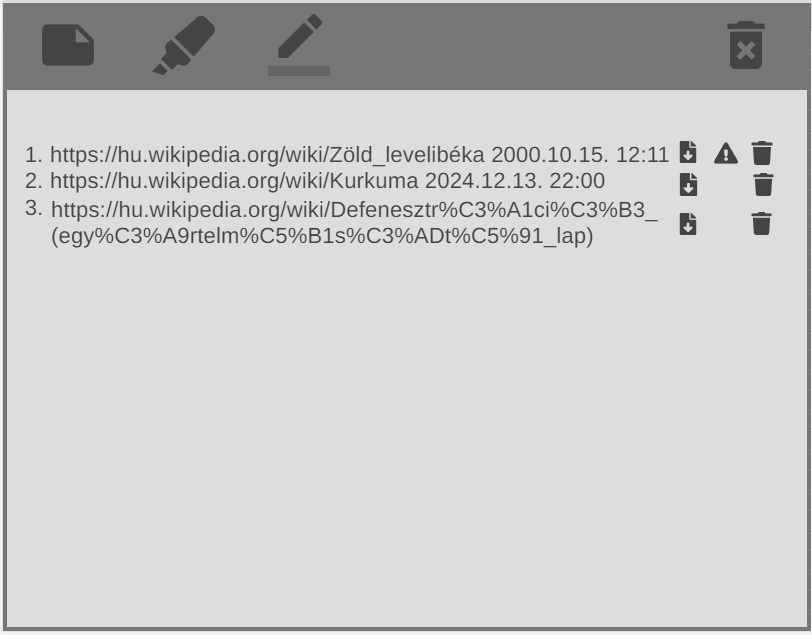
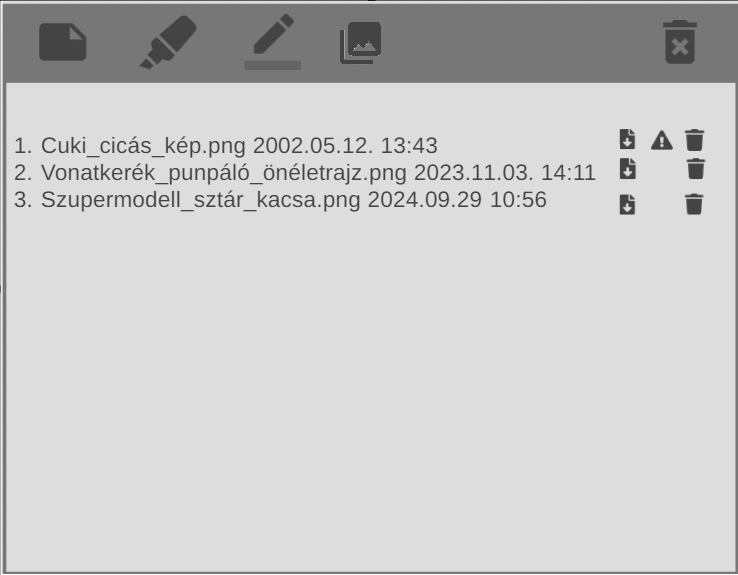
toolbar,all_notes, notes

Changed region(s): [[0.0, 0.0, 1.0, 1.0], [0.3428, 0.0591, 0.374, 0.0887]]

diff --git a/design/design.md b/design/design.md
@@ -1,7 +1,7 @@
 # Concept Design 
 
 ## All Notes:
-![all_notes_highlights](all_notes_highlights.png) ![all_notes_note](all_notes_note.png) ![all_notes_picture](all_notes_picture.png)
+![all_notes_highlights](all_notes_highlights.png) ![all_notes_note](all_notes_note.png) ![all_notes_picture](all_notes_picture.png),![all_notes_drawing](all_notes_drawing.png)
 - Egy különálló oldal 
 - A felső sorba egy kereső van, ami a jegyzetekben, illetve a kiemelések között keres 
 - Négy csoportot különböztetünk meg:
